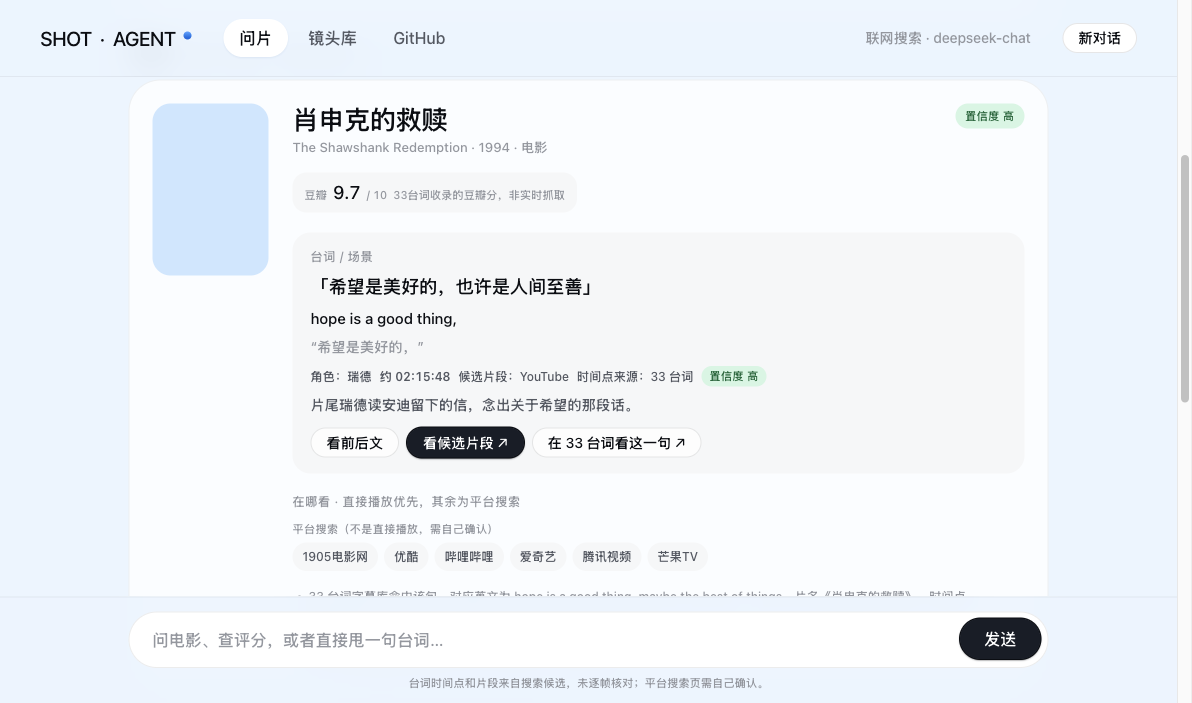
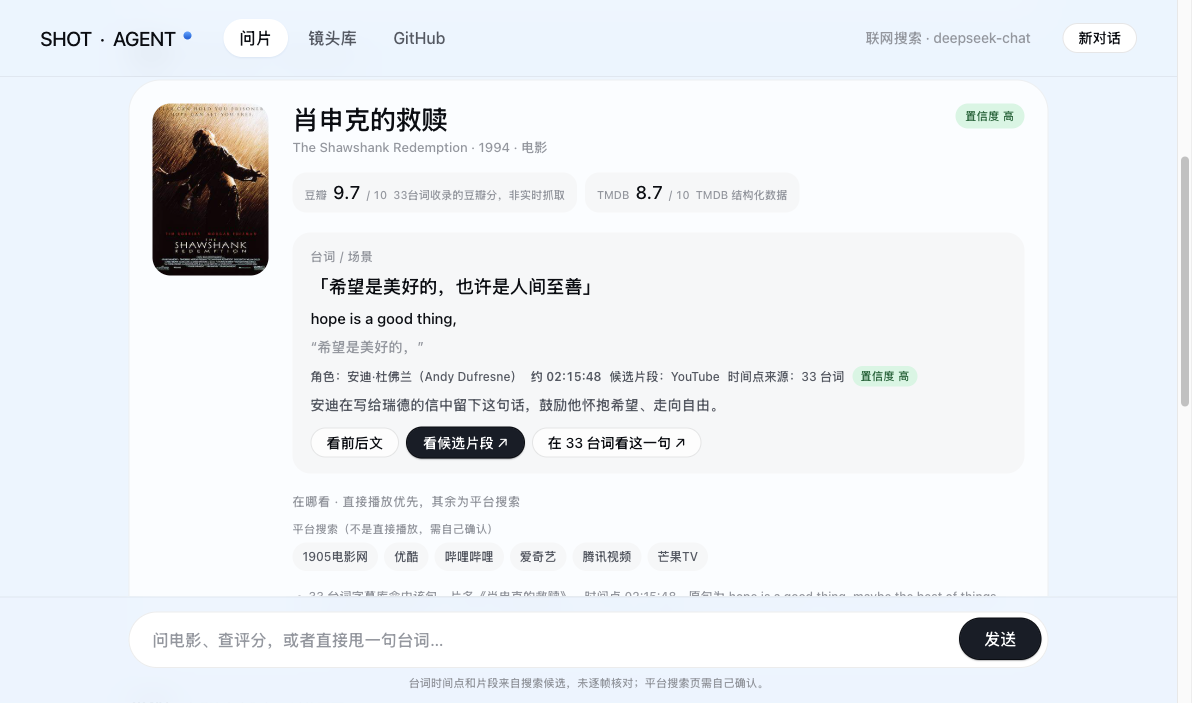
Refresh online evidence for the dialog home page and subtitle context

diff --git a/docs/evidence/线上演示/照着做清单.md b/docs/evidence/线上演示/照着做清单.md
@@ -1,30 +1,34 @@
 # 线上演示 · 照着做清单
 
-**网址**：https://film-shot-agent.onrender.com/ask
+**网址**：https://film-shot-agent.onrender.com/
 
-## 面试前 2 分钟
+- 首页就是对话框。
+- 镜头库在 https://film-shot-agent.onrender.com/library。
+- 旧链接 `/ask` 会自动跳回首页。
 
-1. 打开上面的网址，等页面出现「问一部片，给你能核对的答案」。
-2. 先问一条简单问题，把免费实例叫醒，例如：
-   `《繁花》豆瓣评分多少，有免费渠道吗？`
-3. 看到片名卡片后再开始正式演示。
+## 打开后先看三件事
+
+1. 页面标题是「一句话，找到那部片。」，底部有输入框。
+2. 点一个推荐问题，等 10–30 秒出卡片。
+3. 卡片上有海报、片名、年份、豆瓣分、台词、时间点、来源按钮。
 
 ## 推荐演示顺序
 
-1. `Is Oppenheimer worth watching? What are its ratings and where can I stream it?`
-   - 预期：豆瓣 8.8 / IMDb 8.2 / TMDB 8.0；B站需确认；带来源。
-2. `哪部电影里男主角在雨中跳舞？`
-   - 预期：《雨中曲》1952，高置信度，带证据。
-3. `《沙丘2》和《沙丘1》哪个评分高？`
-   - 预期：《沙丘2》8.1 > 《沙丘》7.8，续集分数不串。
+1. `“说好的一辈子，差一年一个月一天一个时辰，都不算一辈子”是哪部电影的台词？`
+   - 预期：《霸王别姬》1993；约 01:01:36；豆瓣 9.6；海报；B站片段。
+2. `“希望是美好的，也许是人间至善”出自哪部电影？`
+   - 预期：《肖申克的救赎》1994；约 02:15:48；豆瓣 9.7；海报；点「看前后文」能看到上下句。
+3. `I am gonna make him an offer he cannot refuse — which movie is this from?`
+   - 预期：《教父》1972；约 00:24:46；豆瓣 9.3；原句 + 中文翻译。
 4. 想展示“不编造”时：
-   `《周处除三害》值得看吗，在哪看？`
-   - 预期：评分正常；没有可验证播放页时会写“未确认”，并给 caveat。
+   `“月亮今晚很圆，像你家的锅盖”出自哪部电影？`
+   - 预期：明确说没查到，不出卡片。
 
 ## 不要做
 
 - 不要点镜头库里的「播放」「导出」：线上只带索引和缩略图，没有影片本体。
 - 不要把链接发到大群或社交平台：没有登录，拿到的人都会消耗模型/搜索额度。
+- 海报如果偶尔不显示，是 33台词/ TMDB 图床波动；卡片其余字段仍然可用。
 
 ## 如果第一次打开很慢
 

diff --git a/docs/evidence/线上演示/是否表.md b/docs/evidence/线上演示/是否表.md
@@ -2,15 +2,16 @@
 
 | # | 检查项 | 是 / 否 / N/A | 说明 |
 | --- | --- | --- | --- |
-| 1 | 公网地址可访问 | 是 | `https://film-shot-agent.onrender.com/ask` 返回 200 |
+| 1 | 公网地址可访问 | 是 | `https://film-shot-agent.onrender.com/` 返回 200，首页是对话框；`/library` 返回 200；`/ask` 302 回首页 |
 | 2 | 健康检查正常 | 是 | `/api/health`：2 部 / 244 镜头 / 76 台词 |
-| 3 | 问片接口真实模型/搜索 | 是 | Oppenheimer 实测 12.6 秒，豆瓣/IMDb/TMDB 三源 |
-| 4 | 前端桌面宽度 | 是 | 截图 `问片首页-桌面.png` |
-| 5 | 前端 390px 宽度 | 是 | 截图 `问片首页-390px.png`，无横向溢出 |
+| 3 | 问片接口真实模型/搜索/字幕库 | 是 | 台词题实测 11.6 秒：33台词 02:15:48 + 豆瓣 9.7 + 海报 + 字幕编号；`/api/chat/subtitles` 返回上下句 |
+| 4 | 前端桌面宽度 | 是 | 截图 `首页-对话框.png`、`台词卡片.png`、`看前后文.png` |
+| 5 | 前端 390px 宽度 | 是 | 截图 `霸王别姬-390px.png`（`docs/evidence/问片第3轮/`），无横向溢出 |
 | 6 | 密钥不在仓库 | 是 | `git grep` 无 DeepSeek / Tavily / TMDB Key；`.env` 已忽略 |
 | 7 | 线上影片播放 | 否 | 演示站为控制体积不含影片本体；页面顶部有提示 |
 | 8 | 数据持久化 | N/A | 演示站 SQLite 临时，重启重置；不承诺业务数据 |
 | 9 | 自动保活 | 是 | GitHub Actions `keepalive.yml`，每 5 分钟；已手动跑通 |
-| 10 | 上线说明/回滚路径 | 是 | `docs/上线说明.md` |
+| 10 | 上线说明/回滚路径 | 是 | `docs/上线说明.md`；Render 可 Rollback 到 26a8e5a |
+| 11 | 海报同源代理 | 是 | `/api/poster` 只允许 TMDB/33台词两个域名，实测返回 `image/jpeg` |
 
 > 免费实例 15 分钟无流量会休眠，冷启动约 50 秒。要求 100% 秒开需升级 Render Starter（约 $7/月），需产品经理确认费用。
